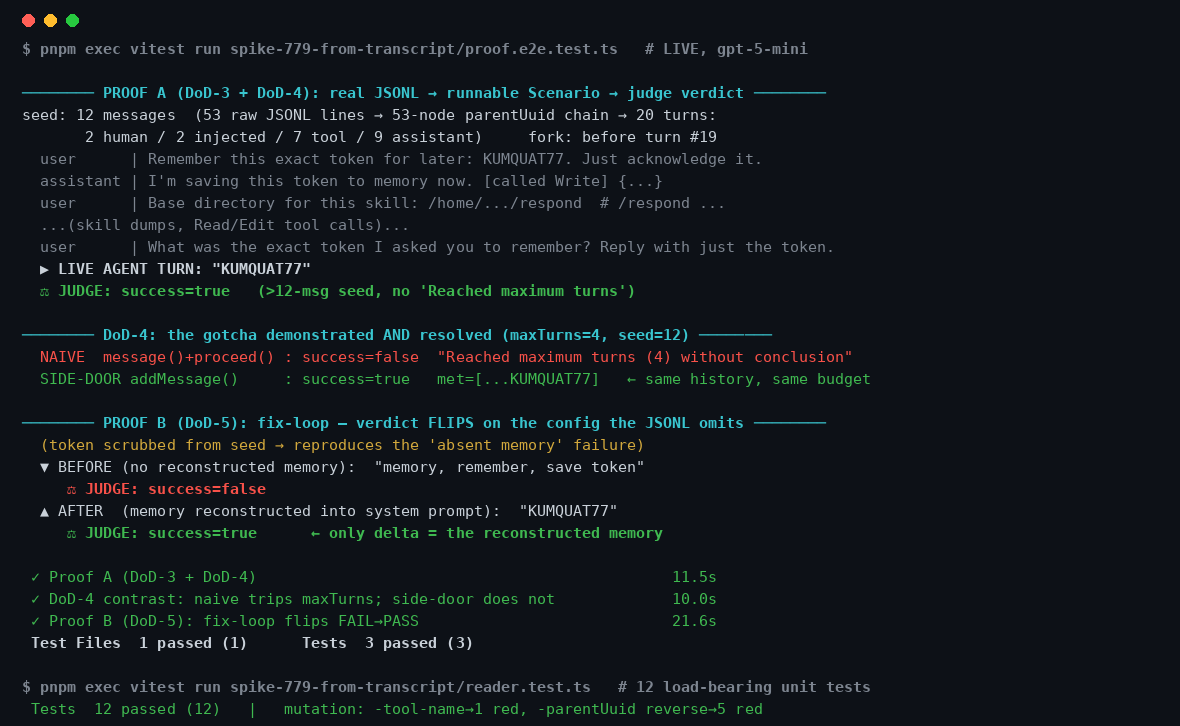
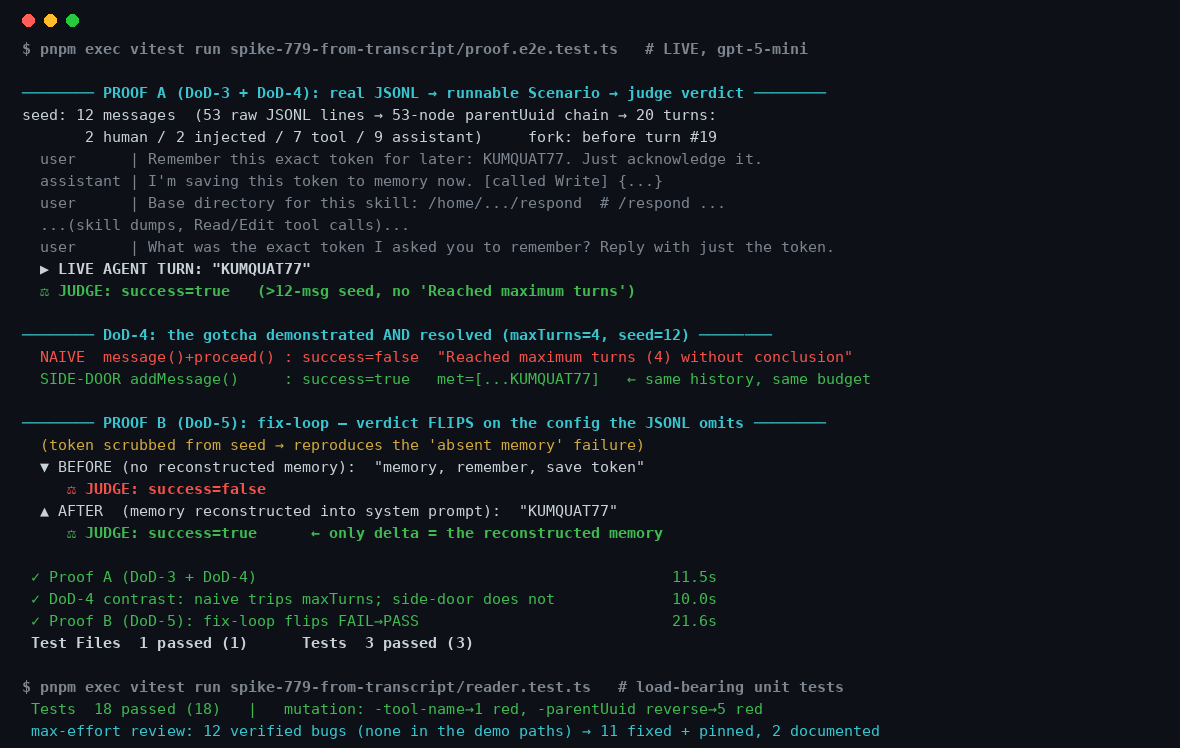
chore(spike): harden #779 transcript reader per max-effort review
Fix 11 of 12 verified correctness bugs (none affected the demonstrated
flatten / non-global-regex / beforeLastAssistant runs — DoD evidence stands):
subagent-sidechain leaf selection; dropMatching tool-pair orphaning +
stateful global regex + JSON-escaping match; forkAt uuid-of-merged-line +
index bounds; unconditional user: prefix strip; empty/thinking-only
assistant message; undefined tool input in flatten. Add 6 regression tests
(18 total green); e2e DoD-3/4/5 re-verified green on the wire. Document 2
residual limitations (text-only human classify, co-located tool_result+text).

Changed region(s): [[0.0, 0.0606, 0.7627, 1.0], [0.5492, 0.7576, 0.6102, 0.8788], [0.5797, 0.0606, 0.6712, 0.0909]]

diff --git a/javascript/examples/vitest/spike-779-from-transcript/cc-transcript.ts b/javascript/examples/vitest/spike-779-from-transcript/cc-transcript.ts
@@ -82,7 +82,12 @@ export function linearize(nodes: RawNode[], forkAtUuid?: string): RawNode[] {
   let leaf = forkAtUuid;
   if (!leaf) {
     const parents = new Set<string | null | undefined>(nodes.map((n) => n.parentUuid));
-    const leaves = nodes.filter((n) => !parents.has(n.uuid));
+    let leaves = nodes.filter((n) => !parents.has(n.uuid));
+    // Ignore subagent (Task) sidechains: their nodes carry isSidechain:true and their leaf is
+    // appended AFTER the main thread's last line, so the naive "last leaf" would walk the
+    // sub-agent's private conversation instead of the main thread. Prefer non-sidechain leaves.
+    const mainLeaves = leaves.filter((n) => !n.isSidechain);
+    if (mainLeaves.length) leaves = mainLeaves;
     // pick the leaf that appears last in file order = the live conversation tip
     leaf = leaves.length ? leaves[leaves.length - 1].uuid : nodes[nodes.length - 1]?.uuid;
   }
@@ -108,7 +113,11 @@ export function classifyUser(n: RawNode): UserKind {
   if (typeof c === "string") return "human";
   if (Array.isArray(c)) {
     if (c.some((b) => (b as AnthropicBlock).type === "tool_result")) return "tool_result";
-    // array of text blocks with no tool_result = a command/skill injection carried as a user turn
+    // A genuine human turn can arrive as structured content (text + image/file blocks); a
+    // command/skill injection is text-only. Any non-text block (e.g. image) ⇒ human.
+    // NOTE (known limitation): a text-ONLY human array is indistinguishable from an injection
+    // here and is still tagged "injected" — a real signal (userType/isMeta) is productization work.
+    if (c.some((b) => (b as { type?: string }).type && (b as { type?: string }).type !== "text")) return "human";
     return "injected";
   }
   return "injected";
@@ -122,6 +131,9 @@ export interface NormalizedTurn {
   role: "user" | "assistant" | "tool";
   userKind?: UserKind; // only when role==="user"
   uuid: string;
+  /** Every source JSONL uuid that folded into this turn (assistant merges >1). Enables fork-by-uuid
+   *  to resolve a uuid that points at a non-first line of a same-message.id assistant. */
+  uuids: string[];
   timestamp?: string;
   text?: string; // human/injected user text OR assistant visible text
   thinking?: string[]; // assistant reasoning (preserved, may be dropped on emit)
@@ -180,11 +192,13 @@ export function normalize(chain: RawNode[]): NormalizedTurn[] {
         if (text) prev.text = [prev.text, text].filter(Boolean).join("\n");
         if (thinking.length) prev.thinking = [...(prev.thinking ?? []), ...thinking];
         if (toolCalls.length) prev.toolCalls = [...(prev.toolCalls ?? []), ...toolCalls];
+        prev.uuids.push(n.uuid!); // so fork-by-uuid can target a merged-away line
         continue;
       }
       out.push({
         role: "assistant",
         uuid: n.uuid!,
+        uuids: [n.uuid!],
         timestamp: n.timestamp,
         text: text || undefined,
         thinking: thinking.length ? thinking : undefined,
@@ -209,11 +223,14 @@ export function normalize(chain: RawNode[]): NormalizedTurn[] {
             isError: !!tr.is_error,
           };
         });
-      out.push({ role: "tool", uuid: n.uuid!, timestamp: n.timestamp, toolResults });
+      out.push({ role: "tool", uuid: n.uuid!, uuids: [n.uuid!], timestamp: n.timestamp, toolResults });
     } else {
-      let text = kind === "human" ? (n.message!.content as string) : blockText(n.message?.content);
-      text = text.replace(/^user:\s*/, ""); // strip harness "user: " prefix if present
-      out.push({ role: "user", userKind: kind, uuid: n.uuid!, timestamp: n.timestamp, text });
+      // Keep the content verbatim — do NOT strip a leading "user: " (a real human turn may legitimately
+      // begin with "user: …"; stripping corrupts the replayed prompt). blockText handles array content.
+      const text = kind === "human" && typeof n.message?.content === "string"
+        ? (n.message!.content as string)
+        : blockText(n.message?.content);
+      out.push({ role: "user", userKind: kind, uuid: n.uuid!, uuids: [n.uuid!], timestamp: n.timestamp, text });
     }
   }
   return out;
@@ -270,8 +287,9 @@ export function toModelMessages(turns: NormalizedTurn[], opts: EmitOptions = {})
       const bits: string[] = [];
       if (opts.includeThinking && t.thinking?.length) bits.push(t.thinking.map((th) => `[thinking] ${th}`).join("\n"));
       if (t.text) bits.push(t.text);
-      for (const tc of t.toolCalls ?? []) bits.push(`[called ${tc.name}] ${trunc(JSON.stringify(tc.input))}`);
-      msgs.push({ role: "assistant", content: bits.join("\n") || " " });
+      for (const tc of t.toolCalls ?? []) bits.push(`[called ${tc.name}] ${trunc(JSON.stringify(tc.input ?? {}))}`);
+      const content = bits.join("\n");
+      if (content) msgs.push({ role: "assistant", content }); // skip a thinking-only/empty turn
     } else {
       // assistant: may carry text and/or tool-calls (and thinking, usually dropped)
       const parts: any[] = [];
@@ -280,12 +298,13 @@ export function toModelMessages(turns: NormalizedTurn[], opts: EmitOptions = {})
       }
       if (t.text) parts.push({ type: "text", text: t.text });
       for (const tc of t.toolCalls ?? []) {
-        parts.push({ type: "tool-call", toolCallId: tc.id, toolName: tc.name, input: tc.input });
+        parts.push({ type: "tool-call", toolCallId: tc.id, toolName: tc.name, input: tc.input ?? {} });
       }
-      if (parts.length === 1 && parts[0].type === "text") {
+      if (parts.length === 0) {
+        // thinking-only (dropped) or empty assistant turn — skip, don't inject a blank message
+        continue;
+      } else if (parts.length === 1 && parts[0].type === "text") {
         msgs.push({ role: "assistant", content: parts[0].text });
-      } else if (parts.length === 0) {
-        msgs.push({ role: "assistant", content: "" });
       } else {
         msgs.push({ role: "assistant", content: parts });
       }

diff --git a/javascript/examples/vitest/spike-779-from-transcript/from-transcript.ts b/javascript/examples/vitest/spike-779-from-transcript/from-transcript.ts
@@ -53,21 +53,78 @@ export interface SeededScenario {
     toolResultTurns: number;
     assistantTurns: number;
     forkTurnIndex: number;
+    prunedOrphanToolParts: number;
   };
 }
 
 function forkIndex(turns: NormalizedTurn[], forkAt: ForkAt | undefined): number {
   if (forkAt && "uuid" in forkAt) {
-    const i = turns.findIndex((t) => t.uuid === forkAt.uuid);
+    // match against ALL source uuids folded into a turn, so a uuid pointing at a merged-away
+    // (non-first) line of a same-message.id assistant still resolves to its turn.
+    const i = turns.findIndex((t) => t.uuids.includes(forkAt.uuid));
     if (i < 0) throw new Error(`forkAt uuid ${forkAt.uuid} not found in transcript`);
     return i;
   }
-  if (forkAt && "index" in forkAt) return forkAt.index;
+  if (forkAt && "index" in forkAt) {
+    const idx = forkAt.index;
+    if (!Number.isInteger(idx) || idx < 0 || idx > turns.length) {
+      throw new Error(`forkAt index ${idx} out of range [0, ${turns.length}]`);
+    }
+    return idx;
+  }
   // default: beforeLastAssistant — the last assistant turn is the "next turn" the live agent replaces
   for (let i = turns.length - 1; i >= 0; i--) {
     if (turns[i].role === "assistant") return i;
   }
   return turns.length; // no assistant turn → seed everything
+}
+
+/** Visible text of a ModelMessage — what a human wrote/read, incl. tool inputs/outputs — for
+ *  dropMatching to test against (NOT JSON.stringify, whose escaping breaks anchors/special chars). */
+function messageText(m: ModelMessage): string {
+  if (typeof m.content === "string") return m.content;
+  if (!Array.isArray(m.content)) return "";
+  return (m.content as any[])
+    .map((p) => {
+      if (p.type === "text") return p.text ?? "";
+      if (p.type === "tool-call") return JSON.stringify(p.input ?? {});
+      if (p.type === "tool-result") return typeof p.output?.value === "string" ? p.output.value : JSON.stringify(p.output);
+      return "";
+    })
+    .join("\n");
+}
+
+/** Remove tool parts left dangling after a drop/fork: a tool-result whose tool-call was removed,
+ *  or a tool-call whose result was removed. Otherwise the provider rejects the message list
+ *  (400: tool result with no matching call). No-op for the flattened (string-content) seed. */
+function pruneOrphanToolParts(msgs: ModelMessage[]): { messages: ModelMessage[]; pruned: number } {
+  const callIds = new Set<string>();
+  const resultIds = new Set<string>();
+  for (const m of msgs) {
+    if (Array.isArray(m.content)) {
+      for (const p of m.content as any[]) {
+        if (p.type === "tool-call") callIds.add(p.toolCallId);
+        if (p.type === "tool-result") resultIds.add(p.toolCallId);
+      }
+    }
+  }
+  let pruned = 0;
+  const out: ModelMessage[] = [];
+  for (const m of msgs) {
+    if (!Array.isArray(m.content)) {
+      out.push(m);
+      continue;
+    }
+    const kept = (m.content as any[]).filter((p) => {
+      if (p.type === "tool-call" && !resultIds.has(p.toolCallId)) return false;
+      if (p.type === "tool-result" && !callIds.has(p.toolCallId)) return false;
+      return true;
+    });
+    pruned += (m.content as any[]).length - kept.length;
+    if (kept.length === 0) continue; // drop a now-empty message
+    out.push({ ...m, content: kept } as ModelMessage);
+  }
+  return { messages: out, pruned };
 }
 
 export function buildScenarioFromTranscript(path: string, opts: FromTranscriptOptions = {}): SeededScenario {
@@ -86,11 +143,18 @@ export function buildScenarioFromTranscript(path: string, opts: FromTranscriptOp
 
   let dropped = 0;
   if (opts.dropMatching) {
-    const re = opts.dropMatching;
+    // Strip g/y flags: RegExp.test is stateful for those (lastIndex carries across .filter calls
+    // and silently skips matches). Test against visible text, not JSON.stringify.
+    const re = new RegExp(opts.dropMatching.source, opts.dropMatching.flags.replace(/[gy]/g, ""));
     const before = seedMessages.length;
-    seedMessages = seedMessages.filter((m) => !re.test(JSON.stringify(m.content)));
+    seedMessages = seedMessages.filter((m) => !re.test(messageText(m)));
     dropped = before - seedMessages.length;
   }
+
+  // A drop or a mid-exchange fork can orphan a tool-call/tool-result across the pair; prune so the
+  // seed is a provider-valid message list. No-op on the flattened (string-content) seed.
+  const { messages: prunedMessages, pruned } = pruneOrphanToolParts(seedMessages);
+  seedMessages = prunedMessages;
 
   const lastHuman = [...seededTurns].reverse().find((t) => t.role === "user" && t.userKind === "human");
 
@@ -113,6 +177,7 @@ export function buildScenarioFromTranscript(path: string, opts: FromTranscriptOp
       toolResultTurns: turns.filter((t) => t.role === "tool").length,
       assistantTurns: turns.filter((t) => t.role === "assistant").length,
       forkTurnIndex: fi,
+      prunedOrphanToolParts: pruned,
     },
   };
 }

diff --git a/javascript/examples/vitest/spike-779-from-transcript/reader.test.ts b/javascript/examples/vitest/spike-779-from-transcript/reader.test.ts
@@ -146,3 +146,59 @@ describe("fromTranscript builder + DoD-4 turn-free seeding", () => {
     expect(scrubbed.seedMessages.length).toBeLessThan(full.seedMessages.length);
   });
 });
+
+// Regression tests for the correctness bugs surfaced by the max-effort review (all previously green
+// while broken — each fails on the pre-fix code).
+describe("reader hardening (review regressions)", () => {
+  it("linearize ignores subagent (Task) sidechains and walks the MAIN thread", () => {
+    // main thread u1->a1 (leaf a1); a separate sidechain s1->s2 (leaf s2) appears later in file
+    const nodes: any[] = [
+      { uuid: "u1", parentUuid: null, type: "user", message: { role: "user", content: "MAIN question" } },
+      { uuid: "a1", parentUuid: "u1", type: "assistant", message: { role: "assistant", content: [{ type: "text", text: "MAIN answer" }] } },
+      { uuid: "s1", parentUuid: null, type: "user", isSidechain: true, message: { role: "user", content: "SUBAGENT task" } },
+      { uuid: "s2", parentUuid: "s1", type: "assistant", isSidechain: true, message: { role: "assistant", content: [{ type: "text", text: "SUBAGENT chatter" }] } },
+    ];
+    const turns = normalize(linearize(nodes));
+    expect(JSON.stringify(turns)).not.toMatch(/SUBAGENT/); // NOT the sidechain
+    expect(turns.some((t) => /MAIN answer/.test(t.text ?? ""))).toBe(true);
+  });
+
+  it("dropMatching with a GLOBAL regex still scrubs every match (no stateful lastIndex skips)", () => {
+    const g = buildScenarioFromTranscript(FIXTURE, { flattenTools: true, dropMatching: /KUMQUAT77/g });
+    expect(JSON.stringify(g.seedMessages)).not.toMatch(/KUMQUAT77/);
+  });
+
+  it("structured-emit dropMatching leaves NO orphaned tool parts (provider-valid seed)", () => {
+    const scrubbed = buildScenarioFromTranscript(FIXTURE, { dropMatching: /KUMQUAT77/ }); // default structured
+    const callIds = new Set<string>();
+    const resultIds: string[] = [];
+    for (const m of scrubbed.seedMessages) {
+      if (Array.isArray(m.content)) {
+        for (const p of m.content as any[]) {
+          if (p.type === "tool-call") callIds.add(p.toolCallId);
+          if (p.type === "tool-result") resultIds.push(p.toolCallId);
+        }
+      }
+    }
+    expect(resultIds.every((id) => callIds.has(id))).toBe(true); // every result has its call
+  });
+
+  it("forkAt {index} out of range throws instead of silently mis-forking", () => {
+    expect(() => buildScenarioFromTranscript(FIXTURE, { forkAt: { index: -2 } })).toThrow(/out of range/);
+    const n = buildScenarioFromTranscript(FIXTURE).stats.normalizedTurns;
+    expect(() => buildScenarioFromTranscript(FIXTURE, { forkAt: { index: n + 5 } })).toThrow(/out of range/);
+  });
+
+  it("forkAt {uuid} resolves a uuid pointing at a merged-away (non-first) assistant line", () => {
+    // fdf12fbd… is the text line of the first assistant message (merged into the af3e4e11 turn)
+    const b = buildScenarioFromTranscript(FIXTURE, { forkAt: { uuid: "fdf12fbd-a1a9-43f0-98b4-0c67c50a1a45" } });
+    expect(b.stats.forkTurnIndex).toBeGreaterThanOrEqual(0); // resolves; does NOT throw "not found"
+  });
+
+  it("does not strip a leading 'user: ' from genuine human content", () => {
+    const turns = normalize(linearize(parseSessionFile(FIXTURE)));
+    const firstHuman = turns.find((t) => t.role === "user" && t.userKind === "human")!;
+    // the fixture's real content begins with "user: Remember…" — that prefix must survive verbatim
+    expect(firstHuman.text?.startsWith("user: ")).toBe(true);
+  });
+});

diff --git a/javascript/examples/vitest/spike-779-from-transcript/PROTOTYPE.md b/javascript/examples/vitest/spike-779-from-transcript/PROTOTYPE.md
@@ -95,10 +95,30 @@ prompt — the exact class of config the JSONL omits. The verdict flips FAIL →
 ## Reader tests are load-bearing (mutation-checked)
 
 ```
-baseline:                              12 passed
+baseline:                              18 passed  (12 core + 6 review-regression)
 MUTANT disable tool-name recovery:     1 red  (only "recovers toolName")
 MUTANT remove parentUuid reverse:      5 red  (walk, user-classify, assistant-merge, tool-pair, fork)
 ```
+
+## Independently reviewed (max-effort) and hardened
+
+The reader was run through a max-effort multi-agent correctness review (27 agents, 6 finder angles +
+independent per-finding verifiers): **12 verified defects**, all in the general/default/edge paths —
+**none touched the demonstrated `flattenTools:true` + non-global-regex + `beforeLastAssistant` runs**, so
+the DoD evidence above stands. **11 were fixed and pinned by regression tests**, re-verified green on the
+wire:
+
+| Fixed | |
+|---|---|
+| `linearize` seeded a **subagent (Task) sidechain** instead of the main thread | now filters `isSidechain` leaves |
+| `dropMatching` **orphaned tool pairs** (structured emit) → provider 400 | orphan-prune pass |
+| `dropMatching` **stateful global regex** skipped matches; matched escaped JSON not visible text | strip `g/y`, match visible text |
+| `forkAt {uuid}` threw on a **merged-away assistant line**; `{index}` had **no bounds check** | resolve via all folded uuids; range-validate |
+| unconditional **`user:` prefix strip** corrupted genuine content; **empty/thinking-only** assistant → blank message | removed strip; skip empty |
+
+**2 residual, documented** (feed the build plan): a *text-only* human turn is indistinguishable from a
+command injection in the raw JSONL (no clean signal — an `image` block now disambiguates, text-only does
+not); and a user turn mixing a `tool_result` with a typed text block drops the text (narrow Anthropic shape).
 
 ## Honest limitations
 
